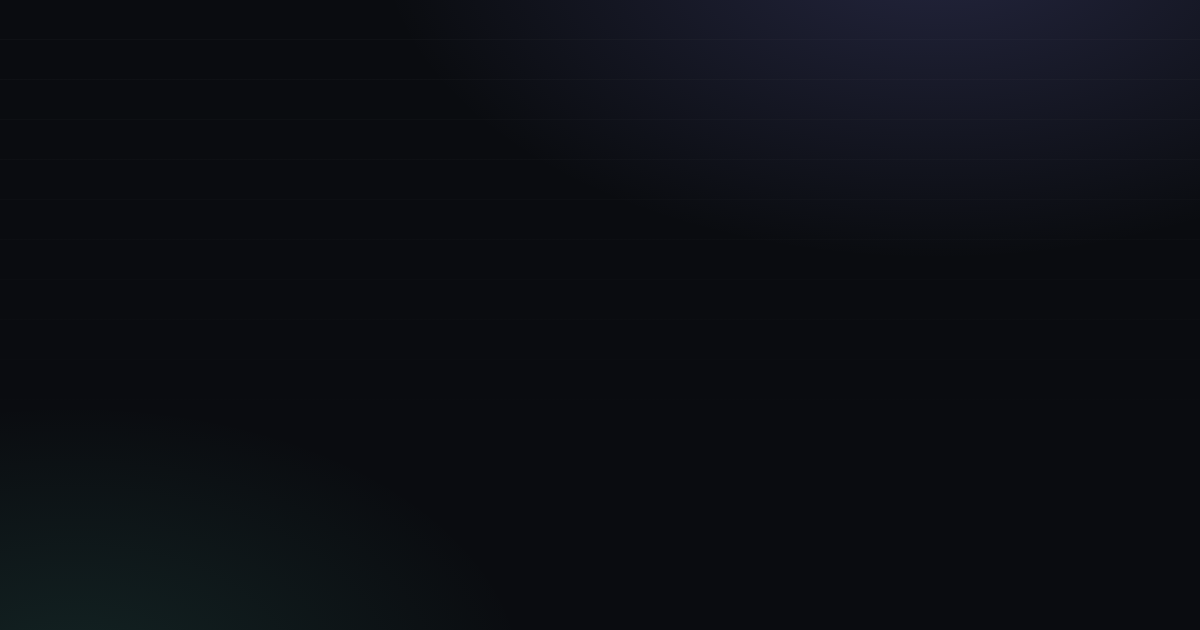
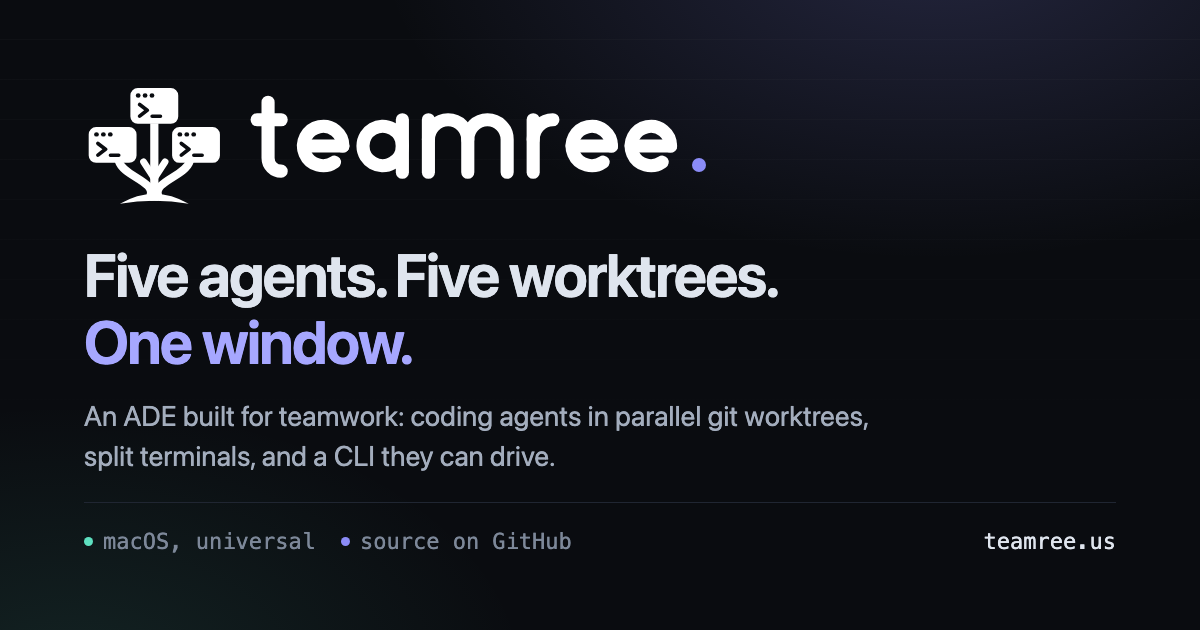
Put the mark back in the social card, and the corrected one in the page
Two inline copies of the geometry were wrong, one of them badly.

site/og/card.html had lost its lockup entirely. A resync script split the
wordmark file on the first `-->` to strip its header comment, and the wordmark
has more than one comment in it, so what it pasted in was three lines and an
unterminated comment. The card rendered with no mark at all and that og.png was
committed — the file dropping from 156 KB to 90 KB was the only sign, and
nothing checks it. Both copies are now extracted from the first `-->` to the
last `</svg>`, and the script refuses to write anything under a length it knows
the real geometry exceeds.

site/public/index.html still carried the pre-audit mark in both its <symbol>
blocks: the branch that curved into the trunk instead of flaring into it, the
chevron drawn as two round-capped sticks, and the thin root tips. The page was
showing a different logo from the app, the icons and the card.

Nothing else in either file is touched. The lesson is the same one the icns
taught: a generated file needs a check that looks at what is in it, not at
whether it exists.

diff --git a/site/public/index.html b/site/public/index.html
@@ -672,105 +672,86 @@ pre[tabindex]{ scrollbar-gutter:stable; }
          header, the footer and the browser tab all carry the reduced form and
          agree with each other. The full mark appears at 72px and above. -->
     <symbol id="mark" viewBox="0 0 64 64" fill="currentColor">
-  <!--
-    The teamree mark: three terminal windows on a branching trunk that merges
-    back into one root. Rebuilt from the owner's artwork (brand/*-source.png) as
-    primitives rather than traced, so the geometry is exact and editable. One
-    grid unit here is 16 pixels of that 1254px artwork; the mark is symmetric
-    about x=32 and spans x 2..62, y 5.5..58.44.
+      <!-- the root: a wide shallow crescent the trunk flares into -->
+        <path d="M15.90 58.66 Q32 49.00 48.10 58.66 Q32 55.50 15.90 58.66 Z"/>
 
-    Single colour: everything is currentColor, so the same file is the black
-    mark on light ground and the white mark on dark. No tile — callers that want
-    a rounded tile draw it themselves, at radius 22.5% of the tile's side.
-  -->
+        <!-- the trunk, descending from the top window into the root -->
+        <path d="M30.09 21.63 H33.91 V57.06 H30.09 Z"/>
 
-  <!-- the root: a wide shallow crescent the trunk flares into -->
-  <path d="M16.28 58.44 Q32 49.19 47.72 58.44 Q32 55.69 16.28 58.44 Z"/>
+        <!-- the two branches, sweeping down and inward from the lower windows -->
+        <g fill="none" stroke="currentColor" stroke-width="3.55" stroke-linecap="round">
+          <path d="M15.81 39.00 C15.81 45.00 32.00 47.00 28.85 55.00"/>
+          <path d="M48.19 39.00 C48.19 45.00 32.00 47.00 35.15 55.00"/>
+        </g>
 
-  <!-- the trunk, descending from the top window into the root -->
-  <path d="M30.13 21.63 H33.88 V57.06 H30.13 Z"/>
+        <!--
+          The chevron where the branches meet the trunk. Each arm is a tapered wedge,
+          not a stroke: in the artwork it comes to a point at the top, widens as it
+          descends, and its outer edge then sweeps back in and flares into the trunk.
+          A constant-width round-capped stroke gets the tip 2 units too fat and the
+          foot 1.5 units too wide, which is the difference between an arrowhead and a
+          pair of sticks. The right edge runs to 30.60 rather than to the trunk's own
+          30.09 so the two shapes overlap instead of sharing an antialiased seam.
+        -->
+        <g>
+          <path d="M27.05 37.60 L25.09 40.02 C26.94 42.22 29.25 44.10 30.13 46.30 L30.60 46.30 L30.60 40.77 Z"/>
+          <path d="M36.95 37.60 L38.91 40.02 C37.06 42.22 34.75 44.10 33.87 46.30 L33.40 46.30 L33.40 40.77 Z"/>
+        </g>
 
-  <!-- the two branches, sweeping down and inward from the lower windows -->
-  <g fill="none" stroke="currentColor" stroke-width="3.63" stroke-linecap="round">
-    <path d="M15.81 39.13 C17.91 45.69 32.91 48.50 30.16 54.75"/>
-    <path d="M48.19 39.13 C46.09 45.69 31.09 48.50 33.84 54.75"/>
-  </g>
-
-  <!-- the chevron where the branches meet the trunk -->
-  <g fill="none" stroke="currentColor" stroke-width="3.13" stroke-linecap="round">
-    <path d="M27.09 39.25 L32 46.75"/>
-    <path d="M36.91 39.25 L32 46.75"/>
-  </g>
-
-  <!--
-    The three windows. Each is one rounded rect with its contents knocked out
-    by fill-rule="evenodd": three chrome dots, a `>` prompt and a `_` cursor.
-    The counters never overlap, so the rule is unambiguous.
-  -->
-  <g fill-rule="evenodd">
-    <!-- top centre -->
-    <path d="M24.44 5.5 H39.56 A3.38 3.38 0 0 1 42.94 8.88 V18.5 A3.38 3.38 0 0 1 39.56 21.88 H24.44 A3.38 3.38 0 0 1 21.06 18.5 V8.88 A3.38 3.38 0 0 1 24.44 5.5 Z
-             M23.5 8.88 A1.13 1.13 0 0 1 25.75 8.88 A1.13 1.13 0 0 1 23.5 8.88 Z
-             M26.66 8.88 A1.13 1.13 0 0 1 28.91 8.88 A1.13 1.13 0 0 1 26.66 8.88 Z
-             M29.81 8.88 A1.13 1.13 0 0 1 32.06 8.88 A1.13 1.13 0 0 1 29.81 8.88 Z
-             M24.77 13.70 L27.34 15.69 L24.77 17.68 A0.84 0.84 0 0 0 25.80 19.01 L29.23 16.36 A0.84 0.84 0 0 0 29.23 15.02 L25.80 12.36 A0.84 0.84 0 0 0 24.77 13.70 Z
-             M31.00 19.22 L34.81 19.22 A0.81 0.81 0 0 0 34.81 17.59 L31.00 17.59 A0.81 0.81 0 0 0 31.00 19.22 Z"/>
-    <!-- lower left -->
-    <path d="M5.38 23.31 H20.50 A3.38 3.38 0 0 1 23.88 26.69 V36.31 A3.38 3.38 0 0 1 20.50 39.69 H5.38 A3.38 3.38 0 0 1 2 36.31 V26.69 A3.38 3.38 0 0 1 5.38 23.31 Z
-             M4.44 26.69 A1.13 1.13 0 0 1 6.69 26.69 A1.13 1.13 0 0 1 4.44 26.69 Z
-             M7.59 26.69 A1.13 1.13 0 0 1 9.84 26.69 A1.13 1.13 0 0 1 7.59 26.69 Z
-             M10.75 26.69 A1.13 1.13 0 0 1 13.00 26.69 A1.13 1.13 0 0 1 10.75 26.69 Z
-             M5.70 31.51 L8.28 33.50 L5.70 35.49 A0.84 0.84 0 0 0 6.73 36.82 L10.17 34.17 A0.84 0.84 0 0 0 10.17 32.83 L6.73 30.18 A0.84 0.84 0 0 0 5.70 31.51 Z
-             M11.94 37.03 L15.75 37.03 A0.81 0.81 0 0 0 15.75 35.41 L11.94 35.41 A0.81 0.81 0 0 0 11.94 37.03 Z"/>
-    <!-- lower right -->
-    <path d="M43.50 23.31 H58.63 A3.38 3.38 0 0 1 62 26.69 V36.31 A3.38 3.38 0 0 1 58.63 39.69 H43.50 A3.38 3.38 0 0 1 40.13 36.31 V26.69 A3.38 3.38 0 0 1 43.50 23.31 Z
-             M42.56 26.69 A1.13 1.13 0 0 1 44.81 26.69 A1.13 1.13 0 0 1 42.56 26.69 Z
-             M45.72 26.69 A1.13 1.13 0 0 1 47.97 26.69 A1.13 1.13 0 0 1 45.72 26.69 Z
-             M48.88 26.69 A1.13 1.13 0 0 1 51.13 26.69 A1.13 1.13 0 0 1 48.88 26.69 Z
-             M43.83 31.51 L46.40 33.50 L43.83 35.49 A0.84 0.84 0 0 0 44.86 36.82 L48.30 34.17 A0.84 0.84 0 0 0 48.30 32.83 L44.86 30.18 A0.84 0.84 0 0 0 43.83 31.51 Z
-             M50.06 37.03 L53.88 37.03 A0.81 0.81 0 0 0 53.88 35.41 L50.06 35.41 A0.81 0.81 0 0 0 50.06 37.03 Z"/>
-  </g>
+        <!--
+          The three windows. Each is one rounded rect with its contents knocked out
+          by fill-rule="evenodd": three chrome dots, a `>` prompt and a `_` cursor.
+          The counters never overlap, so the rule is unambiguous.
+        -->
+        <g fill-rule="evenodd">
+          <!-- top centre -->
+          <path d="M24.44 5.5 H39.56 A3.38 3.38 0 0 1 42.94 8.88 V18.5 A3.38 3.38 0 0 1 39.56 21.88 H24.44 A3.38 3.38 0 0 1 21.06 18.5 V8.88 A3.38 3.38 0 0 1 24.44 5.5 Z
+                   M23.5 8.88 A1.13 1.13 0 0 1 25.75 8.88 A1.13 1.13 0 0 1 23.5 8.88 Z
+                   M26.66 8.88 A1.13 1.13 0 0 1 28.91 8.88 A1.13 1.13 0 0 1 26.66 8.88 Z
+                   M29.81 8.88 A1.13 1.13 0 0 1 32.06 8.88 A1.13 1.13 0 0 1 29.81 8.88 Z
+                   M24.77 13.70 L27.34 15.69 L24.77 17.68 A0.84 0.84 0 0 0 25.80 19.01 L29.23 16.36 A0.84 0.84 0 0 0 29.23 15.02 L25.80 12.36 A0.84 0.84 0 0 0 24.77 13.70 Z
+                   M31.00 19.22 L34.81 19.22 A0.81 0.81 0 0 0 34.81 17.59 L31.00 17.59 A0.81 0.81 0 0 0 31.00 19.22 Z"/>
+          <!-- lower left -->
+          <path d="M5.38 23.31 H20.50 A3.38 3.38 0 0 1 23.88 26.69 V36.31 A3.38 3.38 0 0 1 20.50 39.69 H5.38 A3.38 3.38 0 0 1 2 36.31 V26.69 A3.38 3.38 0 0 1 5.38 23.31 Z
+                   M4.44 26.69 A1.13 1.13 0 0 1 6.69 26.69 A1.13 1.13 0 0 1 4.44 26.69 Z
+                   M7.59 26.69 A1.13 1.13 0 0 1 9.84 26.69 A1.13 1.13 0 0 1 7.59 26.69 Z
+                   M10.75 26.69 A1.13 1.13 0 0 1 13.00 26.69 A1.13 1.13 0 0 1 10.75 26.69 Z
+                   M5.70 31.51 L8.28 33.50 L5.70 35.49 A0.84 0.84 0 0 0 6.73 36.82 L10.17 34.17 A0.84 0.84 0 0 0 10.17 32.83 L6.73 30.18 A0.84 0.84 0 0 0 5.70 31.51 Z
+                   M11.94 37.03 L15.75 37.03 A0.81 0.81 0 0 0 15.75 35.41 L11.94 35.41 A0.81 0.81 0 0 0 11.94 37.03 Z"/>
+          <!-- lower right -->
+          <path d="M43.50 23.31 H58.63 A3.38 3.38 0 0 1 62 26.69 V36.31 A3.38 3.38 0 0 1 58.63 39.69 H43.50 A3.38 3.38 0 0 1 40.13 36.31 V26.69 A3.38 3.38 0 0 1 43.50 23.31 Z
+                   M42.56 26.69 A1.13 1.13 0 0 1 44.81 26.69 A1.13 1.13 0 0 1 42.56 26.69 Z
+                   M45.72 26.69 A1.13 1.13 0 0 1 47.97 26.69 A1.13 1.13 0 0 1 45.72 26.69 Z
+                   M48.88 26.69 A1.13 1.13 0 0 1 51.13 26.69 A1.13 1.13 0 0 1 48.88 26.69 Z
+                   M43.83 31.51 L46.40 33.50 L43.83 35.49 A0.84 0.84 0 0 0 44.86 36.82 L48.30 34.17 A0.84 0.84 0 0 0 48.30 32.83 L44.86 30.18 A0.84 0.84 0 0 0 43.83 31.51 Z
+                   M50.06 37.03 L53.88 37.03 A0.81 0.81 0 0 0 53.88 35.41 L50.06 35.41 A0.81 0.81 0 0 0 50.06 37.03 Z"/>
+        </g>
     </symbol>
     <symbol id="mark-sm" viewBox="0 0 64 64" fill="currentColor">
-  <!--
-    The small-size form of the mark (brand/mark.svg), for 32px and below.
+      <!-- the root -->
+        <path d="M14 58.8 Q32 45.6 50 58.8 Q32 54.2 14 58.8 Z"/>
 
-    Same three windows, same trunk, same branches, same merge — the window
-    contents are dropped and every stroke is thickened, because at 16px the
-    dots and the `>_` antialias into grey and the three windows close up into
-    one blob. Rendered and looked at at 16, 20, 24, 28 and 32 before this shape
-    was settled; see the report in the commit that introduced it.
+        <!-- the trunk -->
+        <path d="M29.2 18 H34.8 V57 H29.2 Z"/>
 
-    The two changes beyond "drop the detail": the gap under the top window is
-    opened from 1.4 units to 4 so the windows stay three at 16px, and the trunk
-    and branches go from 3.6 units to 5.6 and 5 so they survive a single device
-    pixel. The root is deepened for the same reason.
-  -->
+        <!-- the branches -->
+        <g fill="none" stroke="currentColor" stroke-width="5" stroke-linecap="round">
+          <path d="M14.9 37 C14.9 43.8 32 45.8 29.2 54.4"/>
+          <path d="M49.1 37 C49.1 43.8 32 45.8 34.8 54.4"/>
+        </g>
 
-  <!-- the root -->
-  <path d="M14 58.8 Q32 45.6 50 58.8 Q32 54.2 14 58.8 Z"/>
+        <!-- the chevron where the branches meet the trunk -->
+        <g fill="none" stroke="currentColor" stroke-width="5" stroke-linecap="round">
+          <path d="M26.6 39.6 L32 46.4"/>
+          <path d="M37.4 39.6 L32 46.4"/>
+        </g>
 
-  <!-- the trunk -->
-  <path d="M29.2 18 H34.8 V57 H29.2 Z"/>
-
-  <!-- the branches -->
-  <g fill="none" stroke="currentColor" stroke-width="5" stroke-linecap="round">
-    <path d="M14.9 37 C17.1 44.2 32.9 47.6 30 54"/>
-    <path d="M49.1 37 C46.9 44.2 31.1 47.6 34 54"/>
-  </g>
-
-  <!-- the chevron where the branches meet the trunk -->
-  <g fill="none" stroke="currentColor" stroke-width="5" stroke-linecap="round">
-    <path d="M26.6 39.6 L32 46.4"/>
-    <path d="M37.4 39.6 L32 46.4"/>
-  </g>
-
-  <!-- the three windows, solid -->
-  <g>
-    <path d="M24.4 4.5 H39.6 A3.4 3.4 0 0 1 43 7.9 V16.1 A3.4 3.4 0 0 1 39.6 19.5 H24.4 A3.4 3.4 0 0 1 21 16.1 V7.9 A3.4 3.4 0 0 1 24.4 4.5 Z"/>
-    <path d="M5.4 23.5 H20.5 A3.4 3.4 0 0 1 23.9 26.9 V35.1 A3.4 3.4 0 0 1 20.5 38.5 H5.4 A3.4 3.4 0 0 1 2 35.1 V26.9 A3.4 3.4 0 0 1 5.4 23.5 Z"/>
-    <path d="M43.5 23.5 H58.6 A3.4 3.4 0 0 1 62 26.9 V35.1 A3.4 3.4 0 0 1 58.6 38.5 H43.5 A3.4 3.4 0 0 1 40.1 35.1 V26.9 A3.4 3.4 0 0 1 43.5 23.5 Z"/>
-  </g>
+        <!-- the three windows, solid -->
+        <g>
+          <path d="M24.4 4.5 H39.6 A3.4 3.4 0 0 1 43 7.9 V16.1 A3.4 3.4 0 0 1 39.6 19.5 H24.4 A3.4 3.4 0 0 1 21 16.1 V7.9 A3.4 3.4 0 0 1 24.4 4.5 Z"/>
+          <path d="M5.4 23.5 H20.5 A3.4 3.4 0 0 1 23.9 26.9 V35.1 A3.4 3.4 0 0 1 20.5 38.5 H5.4 A3.4 3.4 0 0 1 2 35.1 V26.9 A3.4 3.4 0 0 1 5.4 23.5 Z"/>
+          <path d="M43.5 23.5 H58.6 A3.4 3.4 0 0 1 62 26.9 V35.1 A3.4 3.4 0 0 1 58.6 38.5 H43.5 A3.4 3.4 0 0 1 40.1 35.1 V26.9 A3.4 3.4 0 0 1 43.5 23.5 Z"/>
+        </g>
     </symbol>
     <symbol id="chev" viewBox="0 0 16 16">
       <path d="M8 10.6 2.7 5.3l1.3-1.3L8 8l4-4 1.3 1.3z"/>

diff --git a/site/og/card.html b/site/og/card.html
@@ -62,7 +62,64 @@
   <div class="top">
     <svg class="lockup" viewBox="0 0 274 64" fill="currentColor" role="img" aria-label="teamree">
       <g>
-          <!-- the mark, exactly as brand/mark.svg
+          <!-- the mark, exactly as brand/mark.svg -->
+          <path d="M16.28 58.44 Q32 49.19 47.72 58.44 Q32 55.69 16.28 58.44 Z"/>
+          <path d="M30.13 21.63 H33.88 V57.06 H30.13 Z"/>
+          <g fill="none" stroke="currentColor" stroke-width="3.63" stroke-linecap="round">
+            <path d="M15.81 39.13 C17.91 45.69 32.91 48.50 30.16 54.75"/>
+            <path d="M48.19 39.13 C46.09 45.69 31.09 48.50 33.84 54.75"/>
+          </g>
+          <g fill="none" stroke="currentColor" stroke-width="3.13" stroke-linecap="round">
+            <path d="M27.09 39.25 L32 46.75"/>
+            <path d="M36.91 39.25 L32 46.75"/>
+          </g>
+          <g fill-rule="evenodd">
+            <path d="M24.44 5.5 H39.56 A3.38 3.38 0 0 1 42.94 8.88 V18.5 A3.38 3.38 0 0 1 39.56 21.88 H24.44 A3.38 3.38 0 0 1 21.06 18.5 V8.88 A3.38 3.38 0 0 1 24.44 5.5 Z
+                     M23.5 8.88 A1.13 1.13 0 0 1 25.75 8.88 A1.13 1.13 0 0 1 23.5 8.88 Z
+                     M26.66 8.88 A1.13 1.13 0 0 1 28.91 8.88 A1.13 1.13 0 0 1 26.66 8.88 Z
+                     M29.81 8.88 A1.13 1.13 0 0 1 32.06 8.88 A1.13 1.13 0 0 1 29.81 8.88 Z
+                     M24.77 13.70 L27.34 15.69 L24.77 17.68 A0.84 0.84 0 0 0 25.80 19.01 L29.23 16.36 A0.84 0.84 0 0 0 29.23 15.02 L25.80 12.36 A0.84 0.84 0 0 0 24.77 13.70 Z
+                     M31.00 19.22 L34.81 19.22 A0.81 0.81 0 0 0 34.81 17.59 L31.00 17.59 A0.81 0.81 0 0 0 31.00 19.22 Z"/>
+            <path d="M5.38 23.31 H20.50 A3.38 3.38 0 0 1 23.88 26.69 V36.31 A3.38 3.38 0 0 1 20.50 39.69 H5.38 A3.38 3.38 0 0 1 2 36.31 V26.69 A3.38 3.38 0 0 1 5.38 23.31 Z
+                     M4.44 26.69 A1.13 1.13 0 0 1 6.69 26.69 A1.13 1.13 0 0 1 4.44 26.69 Z
+                     M7.59 26.69 A1.13 1.13 0 0 1 9.84 26.69 A1.13 1.13 0 0 1 7.59 26.69 Z
+                     M10.75 26.69 A1.13 1.13 0 0 1 13.00 26.69 A1.13 1.13 0 0 1 10.75 26.69 Z
+                     M5.70 31.51 L8.28 33.50 L5.70 35.49 A0.84 0.84 0 0 0 6.73 36.82 L10.17 34.17 A0.84 0.84 0 0 0 10.17 32.83 L6.73 30.18 A0.84 0.84 0 0 0 5.70 31.51 Z
+                     M11.94 37.03 L15.75 37.03 A0.81 0.81 0 0 0 15.75 35.41 L11.94 35.41 A0.81 0.81 0 0 0 11.94 37.03 Z"/>
+            <path d="M43.50 23.31 H58.63 A3.38 3.38 0 0 1 62 26.69 V36.31 A3.38 3.38 0 0 1 58.63 39.69 H43.50 A3.38 3.38 0 0 1 40.13 36.31 V26.69 A3.38 3.38 0 0 1 43.50 23.31 Z
+                     M42.56 26.69 A1.13 1.13 0 0 1 44.81 26.69 A1.13 1.13 0 0 1 42.56 26.69 Z
+                     M45.72 26.69 A1.13 1.13 0 0 1 47.97 26.69 A1.13 1.13 0 0 1 45.72 26.69 Z
+                     M48.88 26.69 A1.13 1.13 0 0 1 51.13 26.69 A1.13 1.13 0 0 1 48.88 26.69 Z
+                     M43.83 31.51 L46.40 33.50 L43.83 35.49 A0.84 0.84 0 0 0 44.86 36.82 L48.30 34.17 A0.84 0.84 0 0 0 48.30 32.83 L44.86 30.18 A0.84 0.84 0 0 0 43.83 31.51 Z
+                     M50.06 37.03 L53.88 37.03 A0.81 0.81 0 0 0 53.88 35.41 L50.06 35.41 A0.81 0.81 0 0 0 50.06 37.03 Z"/>
+          </g>
+        </g>
+
+        <!-- the word -->
+        <g fill="none" stroke="currentColor" stroke-width="6" stroke-linecap="round" stroke-linejoin="round">
+          <!-- t -->
+          <path d="M84 12 V37.5 A6 6 0 0 0 90 43.5"/>
+          <path d="M79 20 H90"/>
+          <!-- e -->
+          <path d="M118.2 32 A9 9 0 1 0 114.36 39.37"/>
+          <path d="M118.2 32 H100.2"/>
+          <!-- a -->
+          <path d="M145.4 32 A9 9 0 1 1 145.4 31.99"/>
+          <path d="M145.4 20 V44"/>
+          <!-- m -->
+          <path d="M157.3 20 V44"/>
+          <path d="M157.3 29 A9 9 0 0 1 175.3 29 V44"/>
+          <path d="M175.3 29 A9 9 0 0 1 193.3 29 V44"/>
+          <!-- r -->
+          <path d="M205.2 20 V44"/>
+          <path d="M205.2 29 A9 9 0 0 1 214.2 20"/>
+          <!-- e -->
+          <path d="M241 32 A9 9 0 1 0 237.16 39.37"/>
+          <path d="M241 32 H223"/>
+          <!-- e -->
+          <path d="M268 32 A9 9 0 1 0 264.16 39.37"/>
+          <path d="M268 32 H250"/>
+        </g>
     </svg>
     <i class="dot"></i>
   </div>
